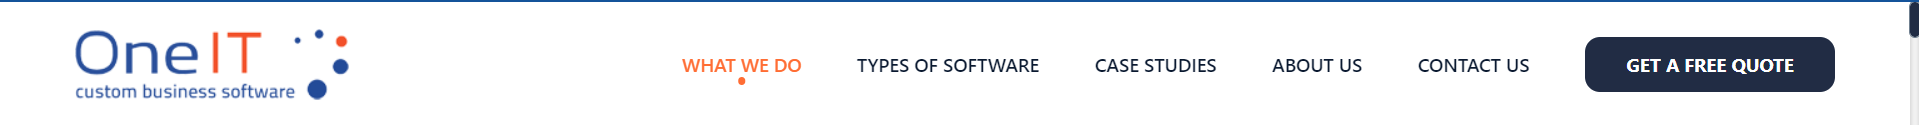
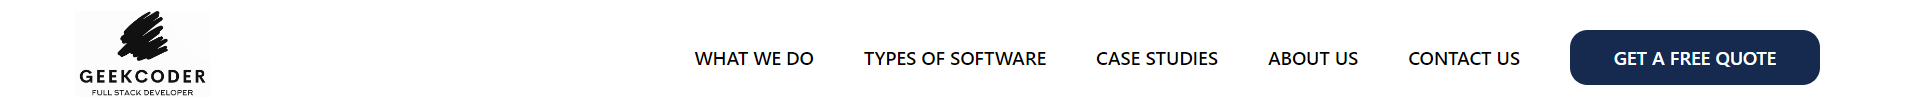
explanation

diff --git a/nav_bar_1/style.css b/nav_bar_1/style.css
@@ -13,17 +13,26 @@ header{
     display: flex;
     justify-content: space-between;
     align-items: center;
-    height: 100px; /* Adjust height as needed */
-    
 }
 
-.logo{
+.logo-box{
     width: 20%;
+    padding: 10px 0;
     float: left;
 }
 
-.menu{
+img{
+    height: auto;
+    max-width: 108px;
+}
+
+.header-menu{
     width: 80%;
+}
+
+button{
+    display: none;
+    
 }
 
 ul{
@@ -35,7 +44,7 @@ ul{
     justify-content: flex-end;
 }
 
-.menu li{
+.header-menu li{
     margin: 0 20px;
 }
 
@@ -50,13 +59,83 @@ a{
 }
 
 a:hover {
-    color: #FF5733; /* Change to desired hover color */
+    color: #FF5733; 
 }
 
-.menu li:last-child a {
+.header-menu li:last-child a {
     background-color: #162A50;
     color: #fff;
     padding: 12px 35px;
     border-radius: 14px;
 }
 
+
+
+@media (max-width: 480px) {
+    .nav-togle{
+        display: block;
+        margin-right: 30px;
+    }
+
+    button{
+    display: block;
+    padding: 0;
+    border: none;
+    background: transparent;
+    font-size: 26px;
+    position: absolute;
+    top: 23px;
+    right: 23px;
+    color: #ff6d34;
+    }
+
+    header{
+        padding: 0 15px;
+    }
+
+    .logo{
+        width: 60%;
+        padding: 10px 0px;
+    }
+    img{
+        width: 87px;
+    }
+
+    ul{
+        position: absolute;
+        left: -100%;
+        text-align: left;
+        width: 100vw;
+        top: 71px;
+        box-shadow: 0 5px 10px 0 #9f9a9a;
+        display: block;
+        height: auto;
+        border-radius: 10px;
+    }
+
+    .toggle{
+        left: 0;
+    }
+
+    .header-menu li {
+        margin: 0 20px;
+        border-bottom: 1px solid;
+        padding: 15px;
+    }
+
+    .header-menu li:last-child a{
+        margin-top: 7px;
+        margin-bottom: 7px;
+    }
+    
+    .header-menu li:last-child {
+        border-bottom: none;
+        text-align: center;
+    }
+
+    a{
+        padding: 0;
+    }
+
+
+}

diff --git a/nav_bar_1/index.html b/nav_bar_1/index.html
@@ -5,17 +5,26 @@
     <meta name="viewport" content="width=device-width, initial-scale=1.0">
     <title>Document</title>
     <link rel="stylesheet" href="style.css">
+    <link rel="stylesheet" href="https://cdnjs.cloudflare.com/ajax/libs/font-awesome/6.0.0-beta3/css/all.min.css">
+
 </head>
 <body>
 
     <header>
         <div class="header-box">
-            <div class="logo">
-                <a href=""><img src="image/logo-1.webp" alt="web-logo"></a>
+            <div class="logo-box">
+                <a href="#">
+                    <img  src="image/logo-1.png" alt="web-logo">
+                </a>
             </div>
-
-            <nav class="menu">
-                <ul>
+        
+        <div class="header-menu">
+            <nav class="main-navigation">
+                <button id="toggle">
+                    <i class="fa-solid fa-bars"></i>
+                </button>
+                <div>
+                <ul class="non-toggle" id="nav-link">
                 <li><a href="">WHAT WE DO</a></li>
                 <li><a href="">TYPES OF SOFTWARE</a></li>
                 <li><a href="">CASE STUDIES</a></li>
@@ -23,10 +32,20 @@
                 <li><a href="">CONTACT US</a></li>
                 <li><a href="">GET A FREE QUOTE</a></li>
                 </ul>
-
+            </div>
             </nav>
         </div>
+    </div>
     </header>
+
+    <script>
+        const toggleButton = document.getElementById('toggle');
+        const navLink = document.getElementById('nav-link');
+
+        toggleButton.addEventListener('click',()=>{
+            navLink.classList.toggle('toggle');
+        })
+    </script>
     
 </body>
 </html>
